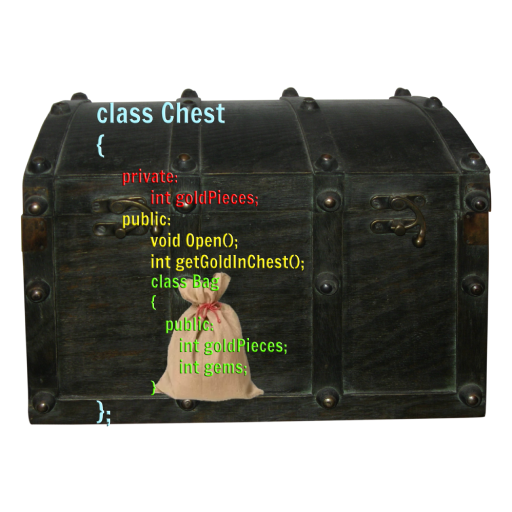
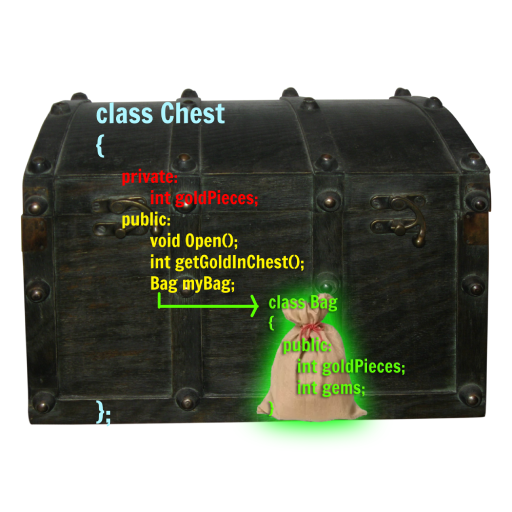
replaced chest.png and fixed some typos in the C++/readme.md

diff --git a/C++/readme.md b/C++/readme.md
@@ -24,13 +24,13 @@ Les structs ont leurs membres en `public` par defaut, tandis que les classes ont
 
 C'est pour cela qu'il est important de definir precisement le type d'acces aux membres.
 
+A l'interieur du coffre, il y a des pieces <span style="color:teal;">(en prive)</span>, des fonctions et un sac <span style="color:teal;">(en public)</span> :
+
 <img src=https://github.com/BDE42LeHavre/Training_42/blob/main/imgs/chest.png width=512>
 
-Dans le coffre, nous avons un sac.
+Et dans ce sac, nous avons des pieces :
 
 <img src=https://github.com/BDE42LeHavre/Training_42/blob/main/imgs/gold_sack.png width=256>
-
-Et dans ce sac, nous avons des pieces.
 
 ```C++
 	class MyClass
@@ -45,9 +45,6 @@ Et dans ce sac, nous avons des pieces.
 Nous avons ici une classe qui s'appelle MyClass et qui contient une variable membre `int` en prive et une fonction membre `void DoStuff()` en public.
 
 Nous ne pouvons pas acceder a une variable ou a une fonction membre definie en <span style="color:teal;">prive</span> hors de cette classe.
-
-
-Dans ce sac, il y a des pieces.
 
 ```C++
 	class Chest
@@ -70,7 +67,7 @@ Dans ce sac, il y a des pieces.
 
 En theorie, le texte affiche sur le terminal devrait indiquer le nombre de pieces que contient le coffre.
 
-En pratique, etant donne que l'variable membre `goldInChest` est en <span style="color:teal;">prive</span>, il n'est <span style="color:teal;">pas accessible</span> dans le `main()` ni a aucun autre endroit en dehors de la classe.
+En pratique, etant donne que la variable membre `goldInChest` est en <span style="color:teal;">prive</span>, elle n'est <span style="color:teal;">pas accessible</span> dans le `main()` ni a aucun autre endroit en dehors de la classe.
 
 C'est une bonne facon d'empecher la modification d'une variable dans un autre fichier ou une autre fonction.
 
@@ -109,7 +106,7 @@ Ce gardien va etre l'intermediaire entre l'interieur et l'exterieur de la classe
 
 <img src=https://github.com/BDE42LeHavre/Training_42/blob/main/imgs/illustration_cpp.jpg width=512>
 
-Pour pouvoir recuperer la valeur de l'variable membre `int goldInChest`, nous pouvons faire un `Getter()`:
+Pour pouvoir recuperer la valeur de la variable `int goldInChest`, nous pouvons faire un `Getter()`:
 
 ```C++
 	class Chest
@@ -122,7 +119,7 @@ Pour pouvoir recuperer la valeur de l'variable membre `int goldInChest`, nous po
 	};
 ```
 
-Le `Getter()` est une fonction membre qui va permettre d'<span style="color:teal;">acceder publiquement</span> a la valeur d'un <span style="color:teal;">variable membre prive</span> sans aucune possibilite de la modifier.
+Le `Getter()` est une fonction membre qui va permettre d'<span style="color:teal;">acceder publiquement</span> a la valeur d'une <span style="color:teal;">variable membre privee</span> sans aucune possibilite de la modifier.
 
 > [!TIP]
 > A noter que :
@@ -139,7 +136,7 @@ Le `Getter()` est une fonction membre qui va permettre d'<span style="color:teal
 
 Appeler un `Getter()`, c'est demander au gardien du coffre de vous dire combien celui-ci contient de pieces.
 
-Il existe aussi le `Setter()`, qui va permettre de donner a cet variable membre prive une valeur choisie.
+Il existe aussi le `Setter()`, qui va permettre de donner a cette variable privee une valeur choisie.
 
 ```C++
 	class Chest
